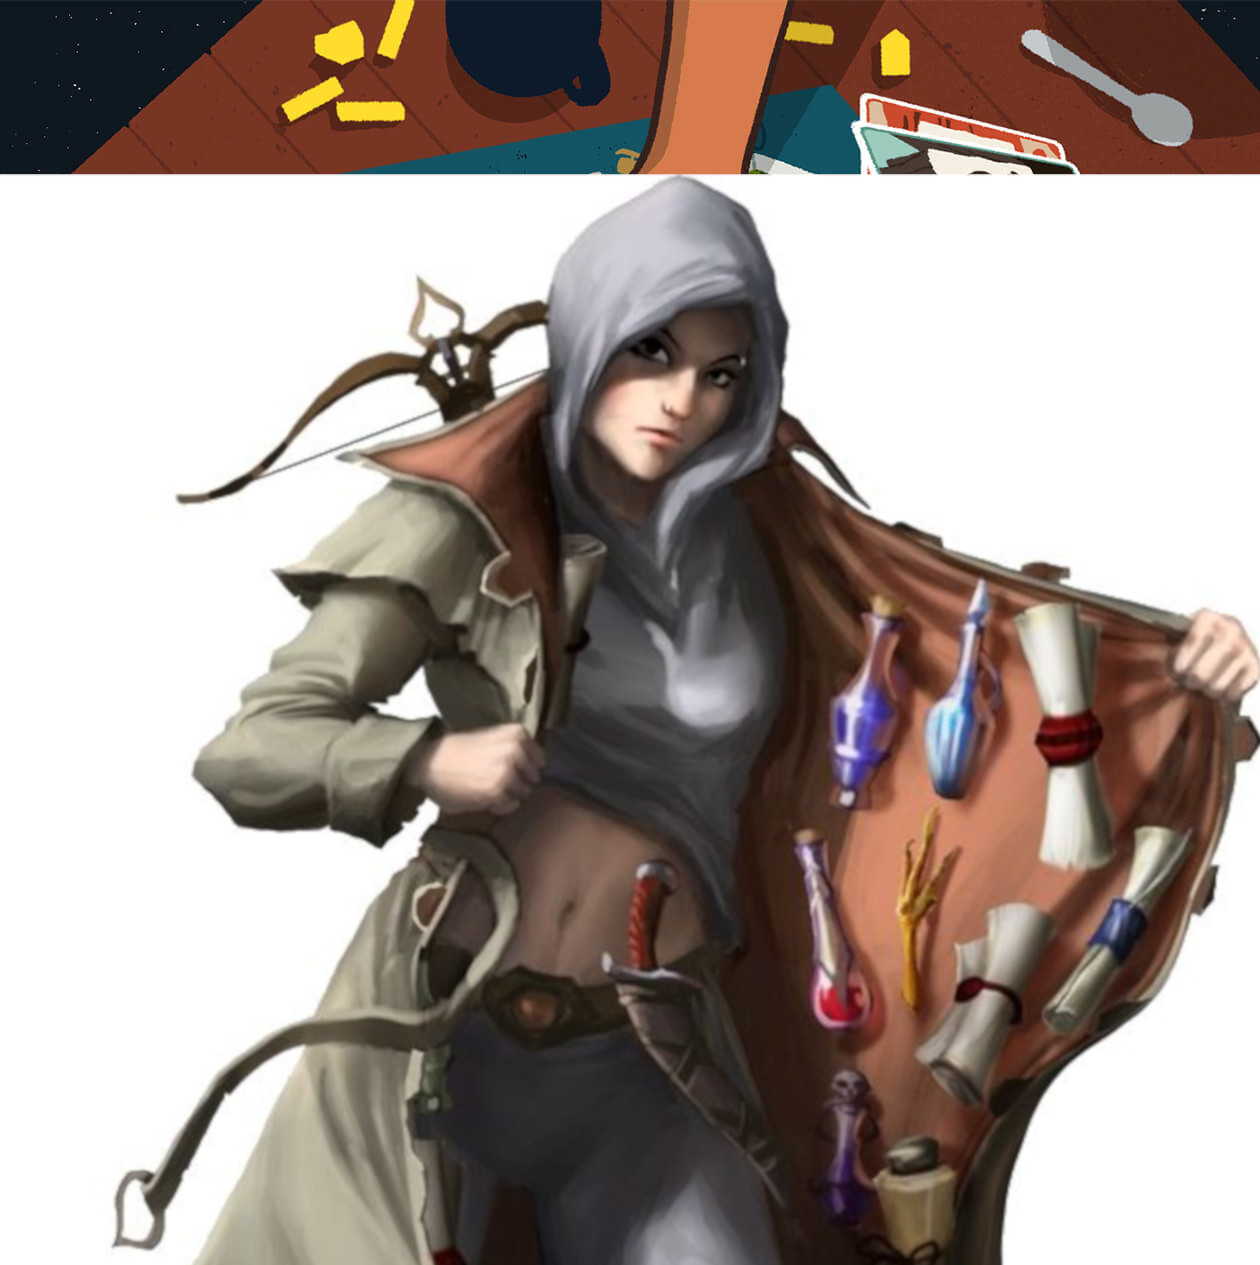
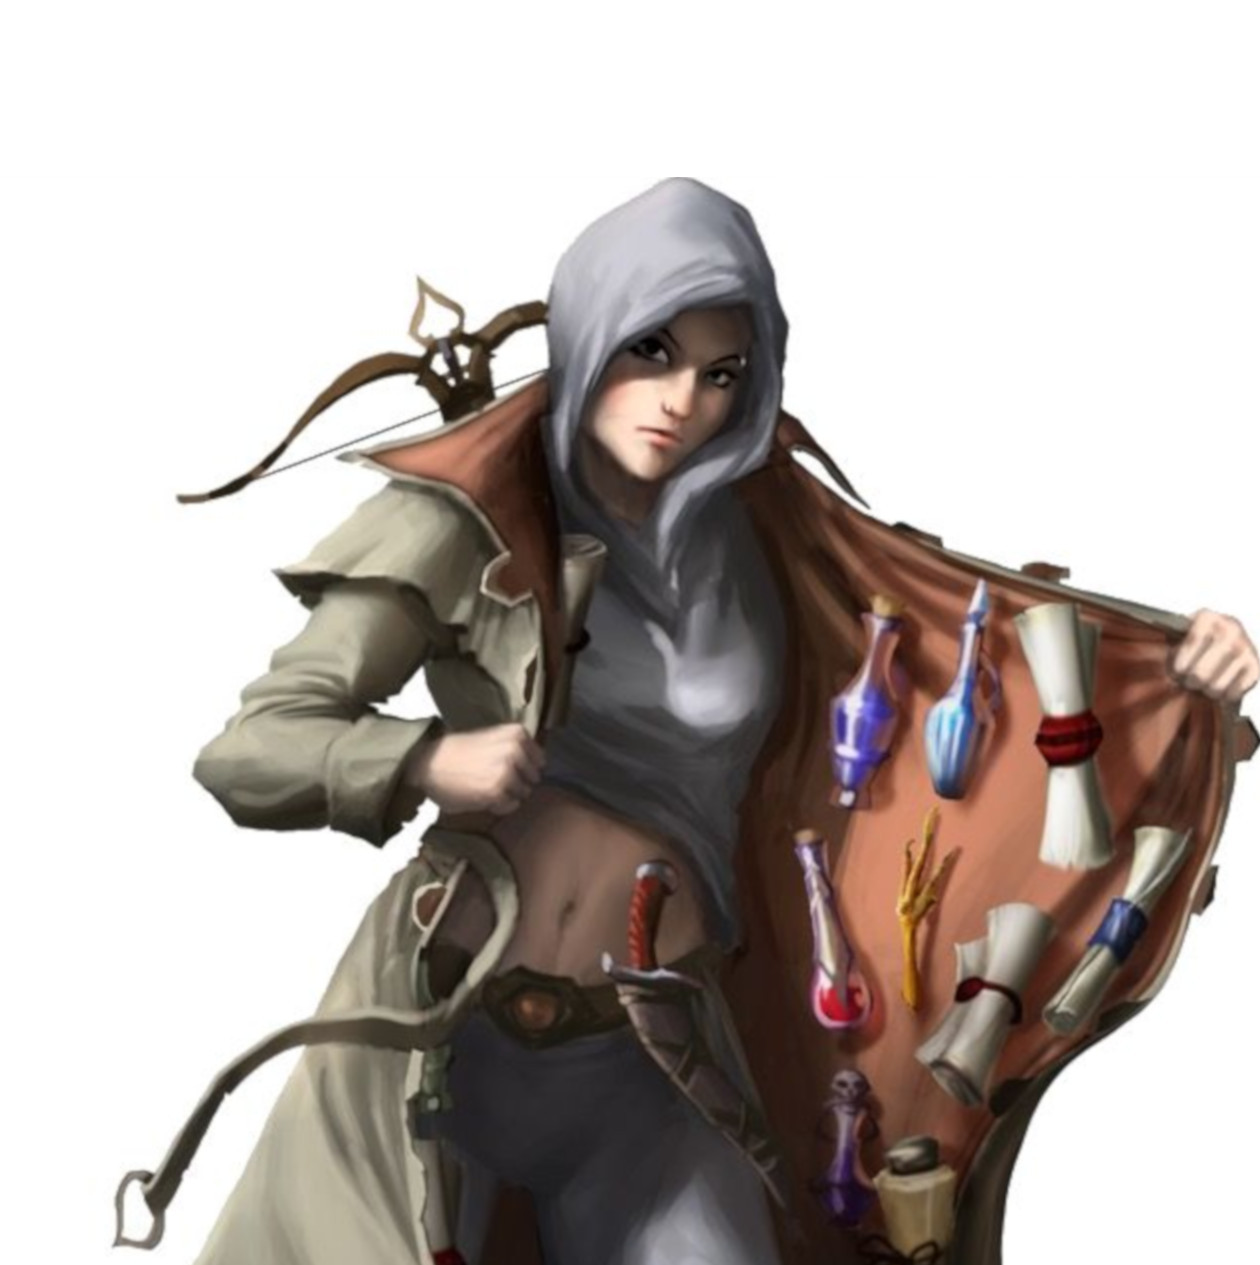
Correct rogue img

Changed region(s): [[0.0, 0.0, 1.0, 0.1542]]

diff --git a/docs/categories/inscrição/index.html b/docs/categories/inscrição/index.html
@@ -288,52 +288,6 @@ https://docs.google.com/forms/d/e/1FAIpQLSeHc84MiZjxOTzq5mU9aec2Ol1cMl4Mug-xq2JE
 			
 
 				
-				<a class="featured-image-link" href="//marimeireles.github.io/rpgirls/post/inscricao-mestras/"><div class='featured-image lazy lazy-bg-image'   data-background="//marimeireles.github.io/rpgirls/img/portfolio/mestre.jpg"></div></a>
-
-				
-
-				<div class="excerpt-container">
-					<div class="excerpt-meta">
-						<span class="date">01 January</span>	<span> / </span>
-
-						
-
-						<span class="author">
-							
-							RPGirls
-							
-						</span>
-						
-
-						 
-							<span> / </span>
-						<span class="category">
-							<a href="/categories/rpgirls/Inscri%c3%a7%c3%a3o">Inscrição</a>
-						</span>
-						
-					</div>
-							<div class='excerpt-header'>
-								<h2 class='excerpt-title'>
-									<a href="//marimeireles.github.io/rpgirls/post/inscricao-mestras/ "> Inscrição para narradoras </a>
-								</h2>
-							</div>
-							<div class='excerpt-content'>
-								<article>
-									Mestras de RPG, estão abertas as inscrições para aquelas que gostariam de mestrar no dia do evento. Basta preencher o formulário com os dados da sua mesa. Você irá decidir quantas pessoas podem se inscrever, se a mesa será exclusivamente feminina ou se aceita homens, dentre outros detalhes. Qualquer dúvida, basta entrar em contato pelo meio que preferir.
-
-									<div class="more-link-wrapper"><a class="more-link" href="//marimeireles.github.io/rpgirls/post/inscricao-mestras/">Read the post<span class="screen-reader-text">This is a Standard Post</span></a></div>
-								</article>
-							</div>
-						</div>
-					</div>
-					
-	
-	
-		<div class="post type-post status-publish format-standard has-post-thumbnail hentry category-design tag-memories tag-normal-post tag-standard-2 excerpt zoom full-without-featured even excerpt">
-			
-			
-
-				
 				<a class="featured-image-link" href="//marimeireles.github.io/rpgirls/post/inscricao-cubo-magico/"><div class='featured-image lazy lazy-bg-image'   data-background="//marimeireles.github.io/rpgirls/img/portfolio/cubo.jpg"></div></a>
 
 				
@@ -377,8 +331,8 @@ https://docs.google.com/forms/d/e/1FAIpQLScbi5yyEM__8ujY2zzUjrM4nE80NToL7qRjj4Bv
 					
 	
 	
-	<div class="post type-post status-publish format-standard has-post-thumbnail hentry category-design tag-memories tag-normal-post tag-standard-2 excerpt zoom full-without-featured odd excerpt">
-		
+		<div class="post type-post status-publish format-standard has-post-thumbnail hentry category-design tag-memories tag-normal-post tag-standard-2 excerpt zoom full-without-featured even excerpt">
+			
 			
 
 				

diff --git a/docs/index.html b/docs/index.html
@@ -284,51 +284,6 @@ https://docs.google.com/forms/d/e/1FAIpQLSeHc84MiZjxOTzq5mU9aec2Ol1cMl4Mug-xq2JE
 			
 
 				
-				<a class="featured-image-link" href="//marimeireles.github.io/rpgirls/post/inscricao-mestras/"><div class='featured-image lazy lazy-bg-image'   data-background="//marimeireles.github.io/rpgirls/img/portfolio/mestre.jpg"></div></a>
-
-				
-				<div class="excerpt-container">
-					<div class="excerpt-meta">
-						<span class="date">01 January</span>	<span> / </span>
-
-						
-
-						<span class="author">
-							
-							RPGirls
-							
-						</span>
-						
-
-						
-						<span> / </span>
-						<span class="category">
-							<a href="/categories/rpgirls/Inscri%c3%a7%c3%a3o">Inscrição</a>
-						</span>
-						
-					</div>
-					<div class='excerpt-header'>
-						<h2 class='excerpt-title'>
-							<a href="//marimeireles.github.io/rpgirls/post/inscricao-mestras/ "> Inscrição para narradoras </a>
-						</h2>
-					</div>
-					<div class='excerpt-content'>
-						<article>
-							Mestras de RPG, estão abertas as inscrições para aquelas que gostariam de mestrar no dia do evento. Basta preencher o formulário com os dados da sua mesa. Você irá decidir quantas pessoas podem se inscrever, se a mesa será exclusivamente feminina ou se aceita homens, dentre outros detalhes. Qualquer dúvida, basta entrar em contato pelo meio que preferir.
-
-							<div class="more-link-wrapper"><a class="more-link" href="//marimeireles.github.io/rpgirls/post/inscricao-mestras/">Read the post<span class="screen-reader-text">This is a Standard Post</span></a></div>
-						</article>
-					</div>
-				</div>
-			</div>
-			
-	
-	
-		<div class="post type-post status-publish format-standard has-post-thumbnail hentry category-design tag-memories tag-normal-post tag-standard-2 excerpt zoom full-without-featured even excerpt">
-			
-			
-
-				
 				<a class="featured-image-link" href="//marimeireles.github.io/rpgirls/post/inscricao-cubo-magico/"><div class='featured-image lazy lazy-bg-image'   data-background="//marimeireles.github.io/rpgirls/img/portfolio/cubo.jpg"></div></a>
 
 				
@@ -371,8 +326,8 @@ https://docs.google.com/forms/d/e/1FAIpQLScbi5yyEM__8ujY2zzUjrM4nE80NToL7qRjj4Bv
 			
 	
 	
-	<div class="post type-post status-publish format-standard has-post-thumbnail hentry category-design tag-memories tag-normal-post tag-standard-2 excerpt zoom full-without-featured odd excerpt">
-		
+		<div class="post type-post status-publish format-standard has-post-thumbnail hentry category-design tag-memories tag-normal-post tag-standard-2 excerpt zoom full-without-featured even excerpt">
+			
 			
 
 				
